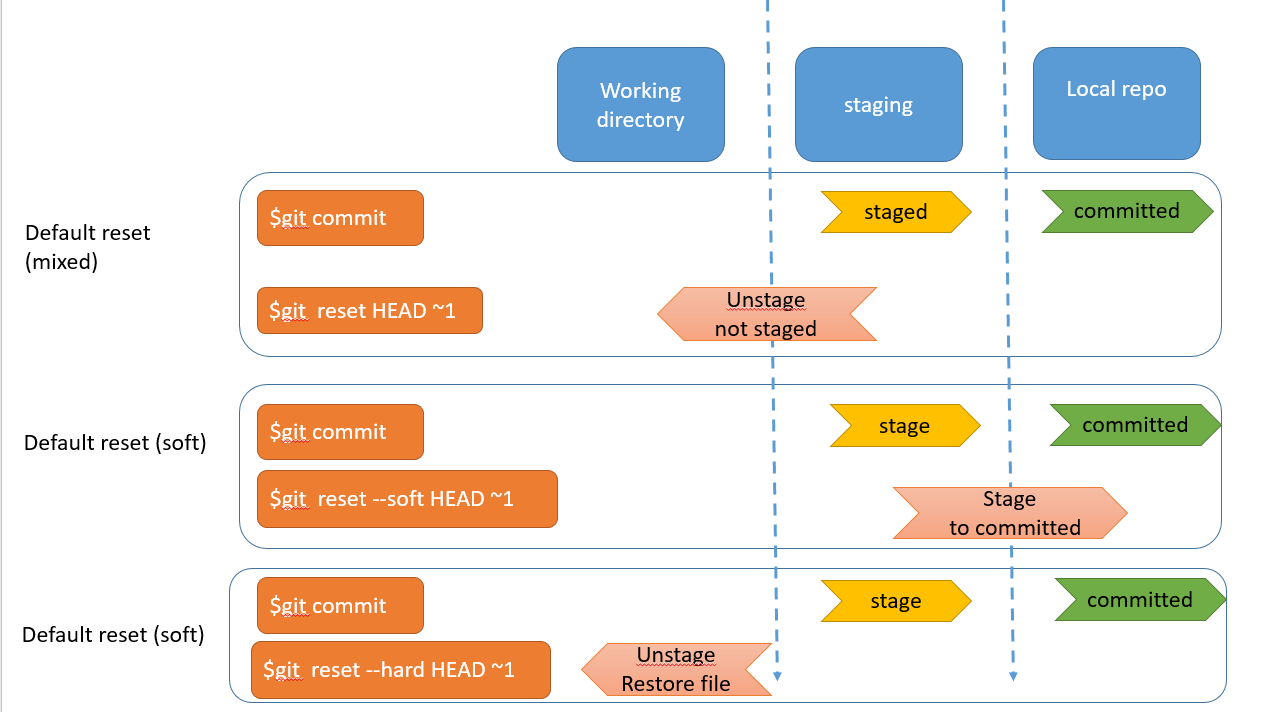
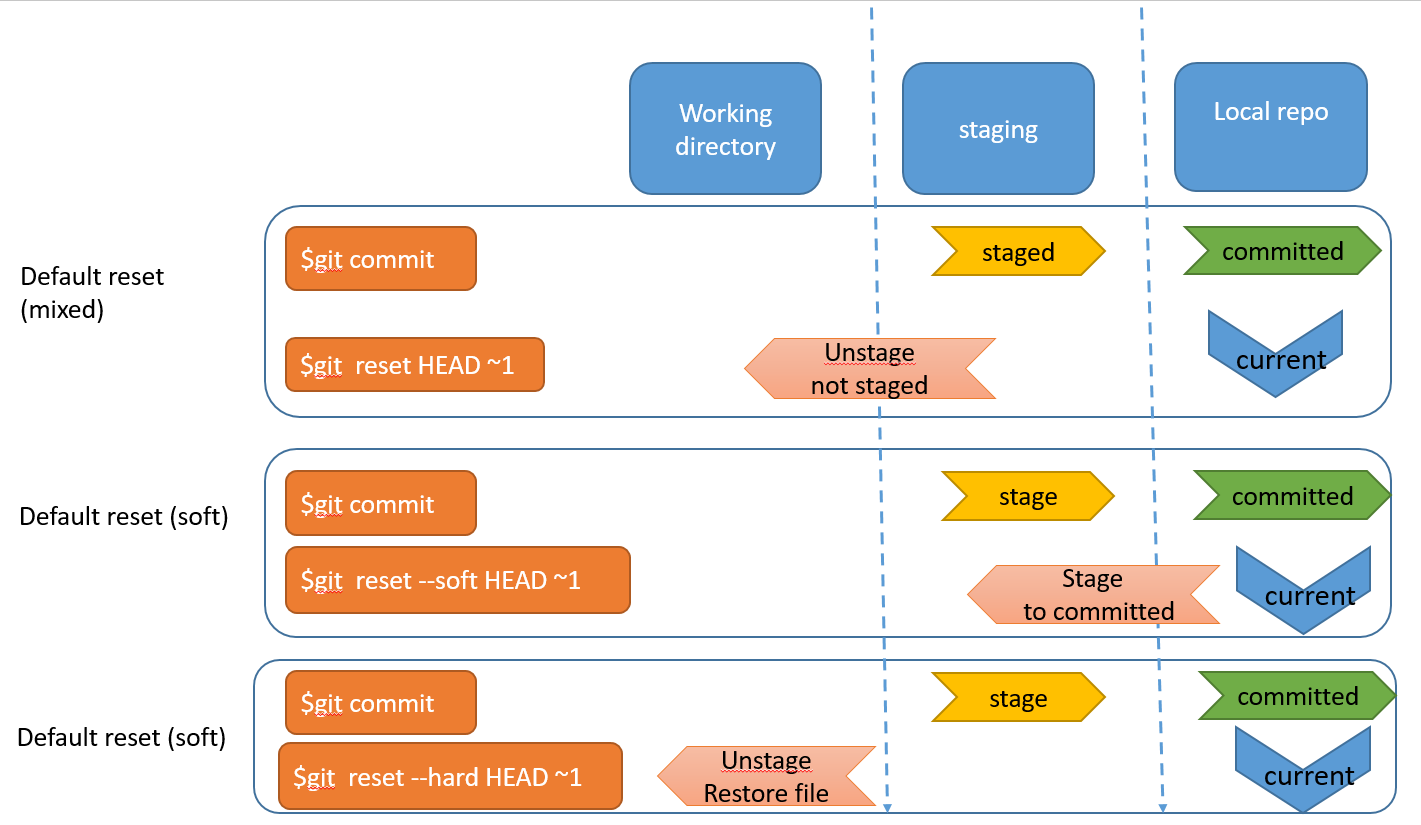
update git delete section and gitreset image

diff --git a/github-command/README.md b/github-command/README.md
@@ -169,6 +169,14 @@ This Git command will push all the modified local objects to the remote reposito
 
 > Syntax: `git clone https://github.com/<username>/repository.git`
 
+you can also use to duplicate anither repository 
+
+**Example:**
+
+- `git clone https://github.com/<username>/test1.git` orginal repository test1
+
+- `git clone https://github.com/<username>/test1.git test2` duplicate rep test2
+
 ### git remote: multiply remote repository
 
 We need to link our local repoistory to remote repoistory, we need to register by using this comamnd: `$git remote add origin　<remote repoistory url>`
@@ -269,15 +277,17 @@ git reset <filename>
 
 ### Branch
 
-- show listing your branch:
+- listing your branch:
   
-  - show branch: ` $git branch`
+  - show local branch: ` $git branch`
   
-  - show all branch include remote:　`$git branch -a`
+  - show remote branch: `$git branch -r`
+  
+  - show all branch remote and local:　`$git branch -a`
 
 - Create branch　
   
-  There are two command you can use, checkout, and switch (new command)
+  There are two command you can use, `checkout`, and `switch` (new command)
   
   > `checkout`: 
   
@@ -309,13 +319,19 @@ git reset <filename>
 
 - delete branch:  
   
-  - delete local branch: `$git branch -d new` 
+  - delete local branch: `$git branch -d <branchname>` 
   
-  - check log: `git log -a`
+  - delete remote branch:　`git push <remote> --delete <branchname>` or shorter way ` git push <remote> :<branch>`
+    
+    -  `-d` option will delete the branch only if it has already been pushed and merged with the remote branch. 
+    
+    -  `-D` instead if you want to force the branch to be deleted, even if it hasn't been pushed or merged yet.
   
-  - delete remote branch:　`git push --delete origin <branchname>`
-
-- **Example:**  After Creating master need to push like this:
+  - prume command to synch remote and lcoal
+    
+    `git fetch origin --prume`
+  
+  **Example:**  After Creating master need to push like this:    
   
   ```
   $git add .
@@ -341,7 +357,7 @@ After knowing how to create branch it's time to know how to merge branches. Ther
 - Merge
   
   - Fast Forward : linear merge
-  
+    
        <img title="default merge" src="img/merge-FF.PNG" alt="title" width="614"> 
   
   - Non Fordward : recursive merge
@@ -358,21 +374,22 @@ After knowing how to create branch it's time to know how to merge branches. Ther
 - Squash    
   
   <img title="squash" src="img/squash.PNG" alt="title" width="614">   
-            
-
-### Deleting repository(local and remote)
 
 ### Fetch/Pull
 
+Fetch: donwload to remote repository 
+
+Pull: Fetch+merge, which will update to your local file. 
+
 ### Tag
-
-
 
 ## reflog
 
 This is really uuseful for restoring deleted branches and commits
 
-## Fetch
+- `git reflog` to check all commit log 
+
+- `git reset <commitid>`  to restore your commit
 
 ## Reference:
 
